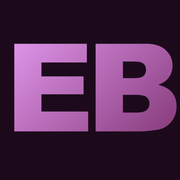
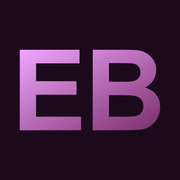
Simge harflerini dis hatlara cevir ve rasterleri tek kaynaktan uret
favicon.svg canli <text> kullaniyordu ve font-family olarak Arial istiyordu.
Bir favicon icin bu kirilgan: yazitipi bulunamayan bir ortamda baska bir fonta
dusuyor ve simge .ico ile ayni gorunmuyor.

Harfler artik Arial Bold'dan cikarilmis dis hatlar (tek <path>), dolayisiyla
hicbir yazitipi bagimliligi kalmadi. favicon.ico ve apple-touch-icon.png de
artik dogrudan favicon.svg'den rasterlestiriliyor, yani uc format tek kaynaktan
turuyor ve birbirinden ayrisamaz.

README'ye yeniden uretme yolu eklendi (CV'de olan konvansiyonun aynisi) ve
Google'in SVG kabul etmedigi, bu yuzden .ico'nun birincil bildirim olmasi
gerektigi not edildi.

Dogrulandi: ICO 16/32/48/64/128/256 iceriyor, apple-touch-icon 180 px ve
alpha'siz, 16 px'te okunakli.

Changed region(s): [[0.0556, 0.2222, 1.0, 0.75], [0.5833, 0.5, 0.8333, 0.6667], [0.5833, 0.3333, 0.8333, 0.4722]]

diff --git a/README.md b/README.md
@@ -87,6 +87,34 @@ assets/
 - GitHub: [@emrefbulut](https://github.com/emrefbulut)
 - PyPI: [emre.bulut](https://pypi.org/user/emre.bulut/)
 
+## Simgeler
+
+`favicon.svg` kaynaktır; `favicon.ico` ve `apple-touch-icon.png` ondan üretilir.
+Harfler canlı `<text>` değil, dış hatlara (path) çevrilmiş durumda — böylece simge
+hangi yazıtipinin kurulu olduğuna bakmaksızın her yerde aynı görünür.
+
+Marka işaretini değiştirirsen rasterleri yeniden bas:
+
+```bash
+chrome --headless=new --default-background-color=00000000 \
+  --window-size=512,512 --screenshot=master.png "file://$PWD/favicon.svg"
+
+python - <<'PY'
+from PIL import Image
+s = Image.open("master.png").convert("RGBA")
+s.resize((256, 256), Image.LANCZOS).save(
+    "favicon.ico", sizes=[(16,16),(32,32),(48,48),(64,64),(128,128),(256,256)])
+a = Image.new("RGB", (180, 180), (28, 10, 28))
+r = s.resize((180, 180), Image.LANCZOS)
+a.paste(r, (0, 0), r)                       # iOS saydamlık desteklemez
+a.save("apple-touch-icon.png")
+PY
+```
+
+Google arama sonuçları SVG kabul etmiyor (BMP, GIF, ICO, PNG, JPEG, PPM, TIFF),
+bu yüzden `.ico` birincil bildirimdir ve kökte durmalıdır. Boyut veya kenar
+boşluğu değiştirirsen 16 pikselde okunaklılığı mutlaka kontrol et.
+
 ## CV
 
 `assets/cv/Emre_Bulut_CV.pdf` elle düzenlenmiyor; `scripts/cv/cv.html` kaynağından
